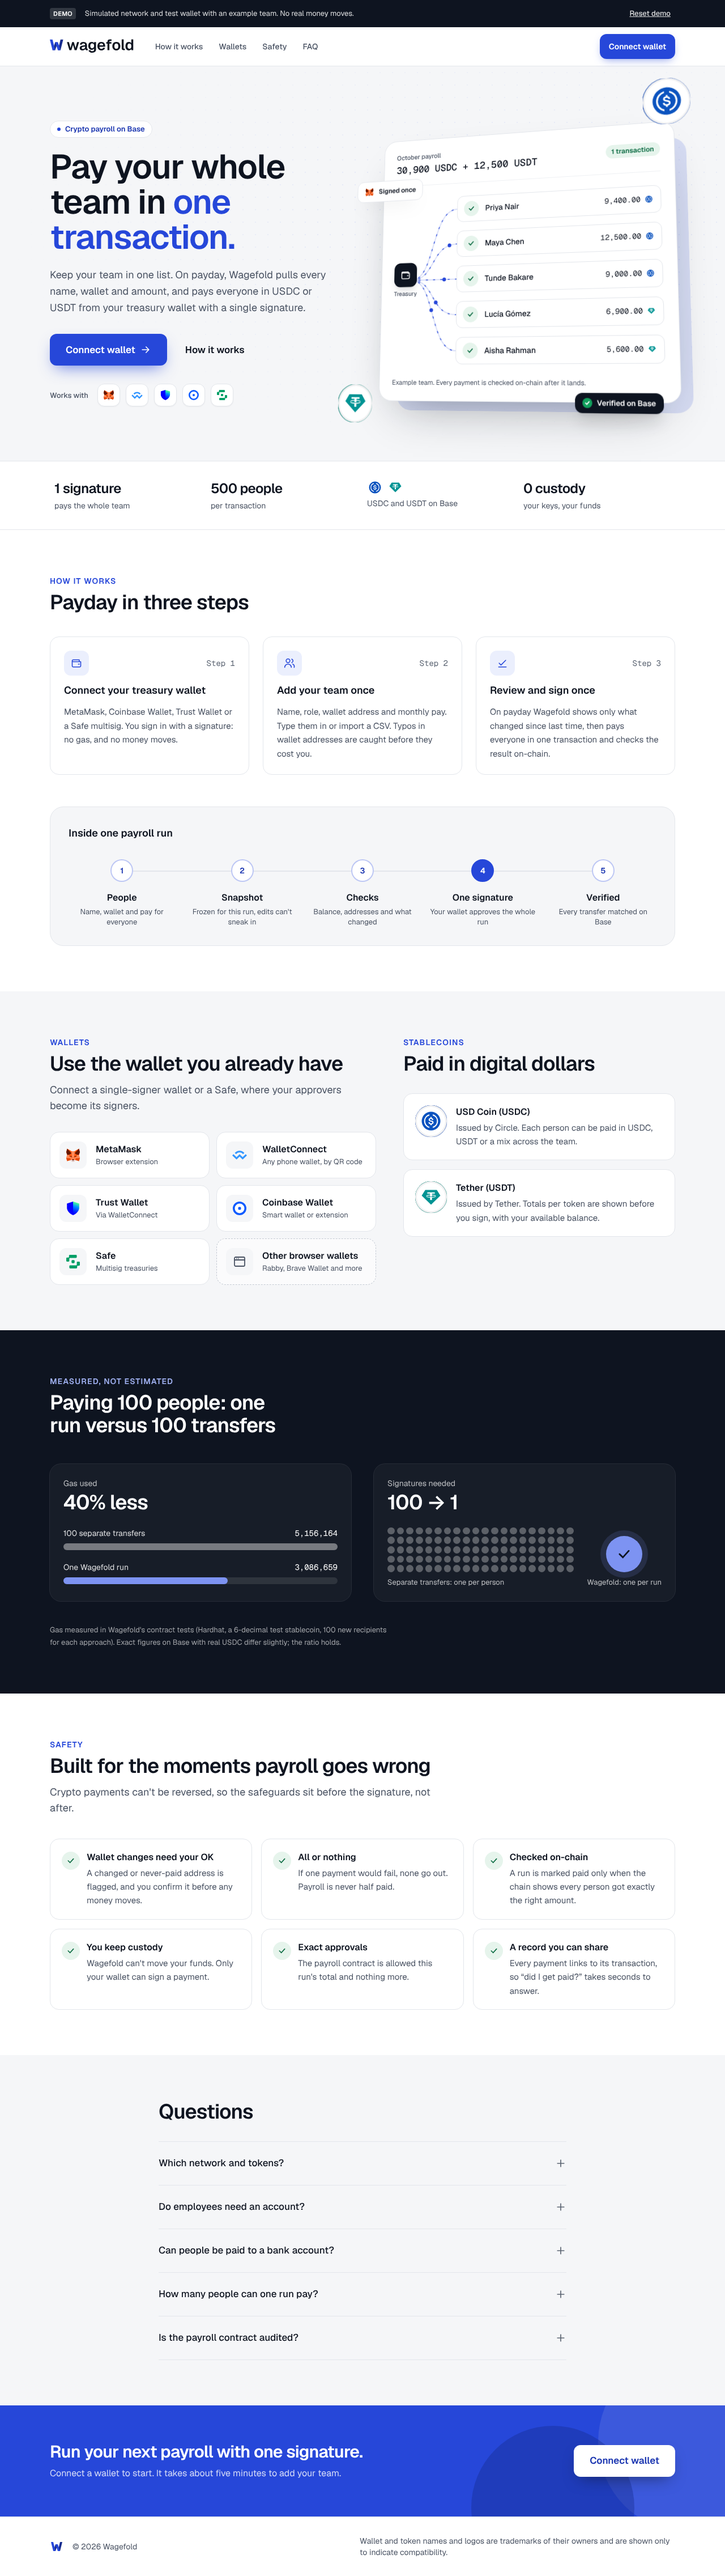
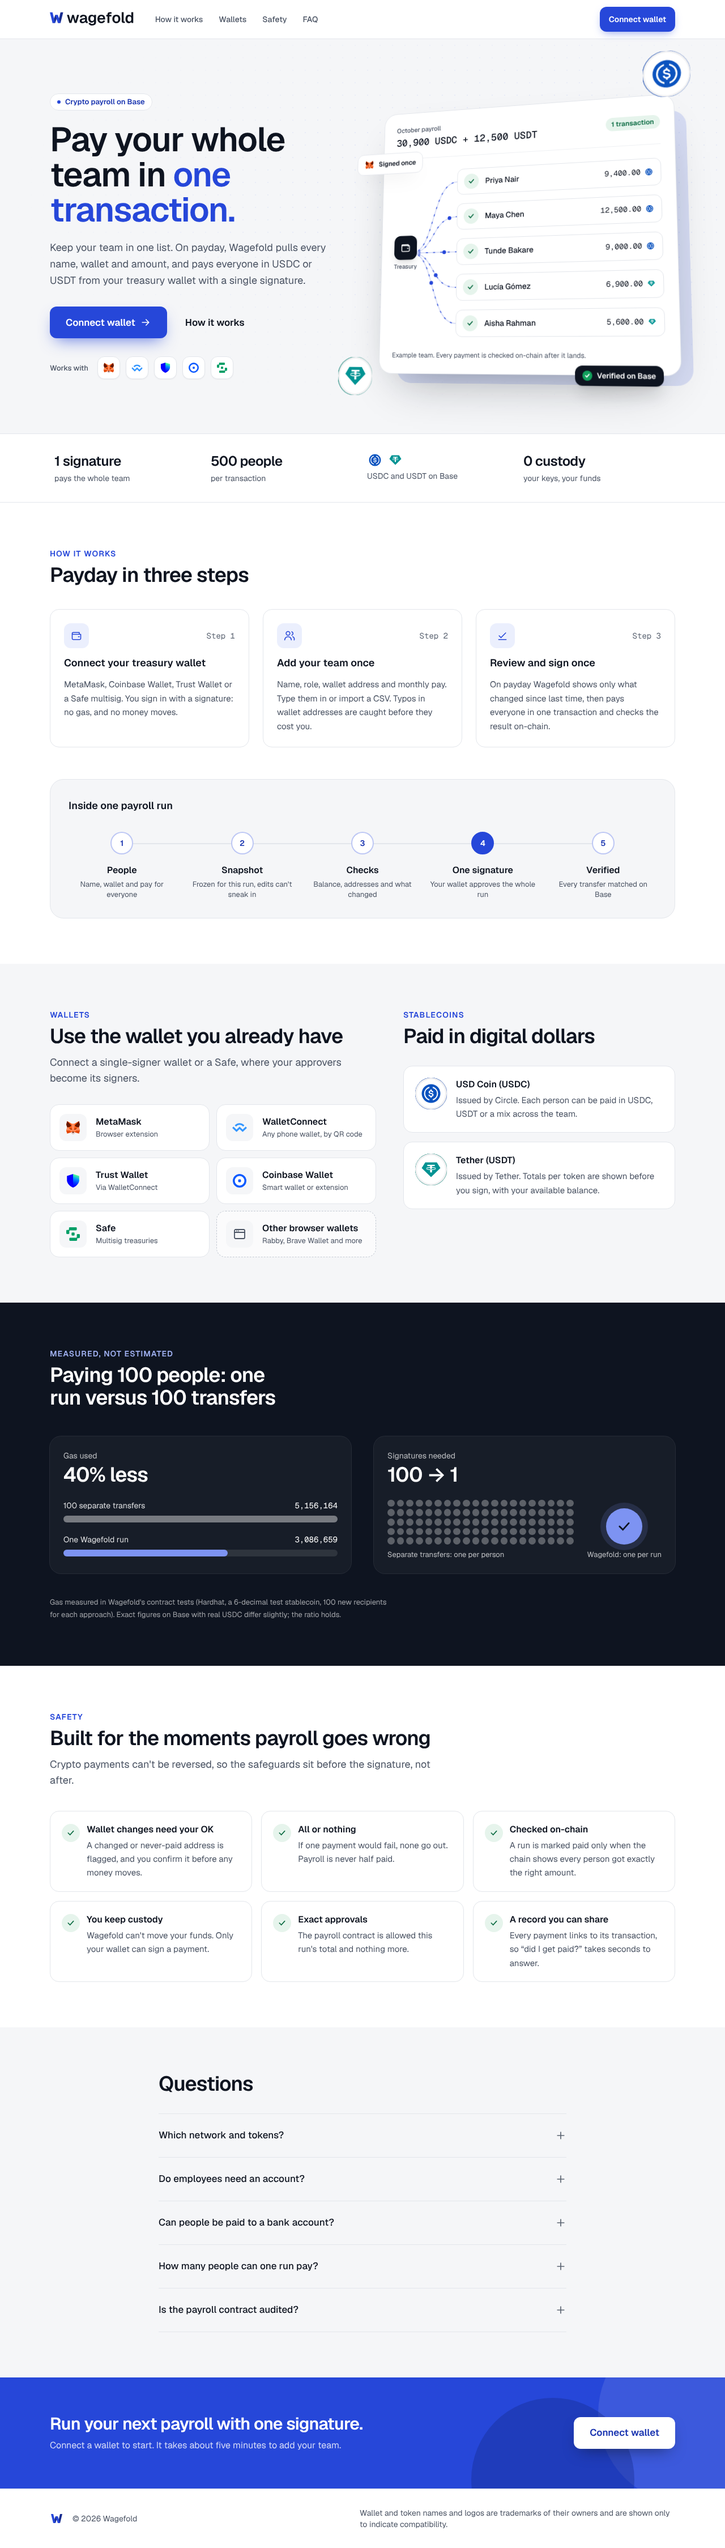
README: lead with the landing page and add a screens gallery
- Hero screenshot of the landing page at the top, full page in a
  collapsible section
- Gallery of review, paid, people and history screens
- Screenshots cropped to remove the demo banner

Claude-Session: https://claude.ai/code/session_01D7rgauhmyBaZ49rgLZu2hs

diff --git a/README.md b/README.md
@@ -2,7 +2,26 @@
 
 Crypto payroll in one transaction. A finance team connects its treasury wallet, keeps its team in Wagefold (name, role, EVM wallet, monthly pay in USDC or USDT), and pays everyone with one signature.
 
-![Review payroll](docs/screenshots/5-review.png)
+![Wagefold landing page](docs/screenshots/landing-hero.png)
+
+<details>
+<summary><b>See the full landing page</b></summary>
+<br>
+<img src="docs/screenshots/1-landing.png" alt="Full Wagefold landing page: hero, how it works, supported wallets and stablecoins, measured gas infographic, safety, FAQ">
+</details>
+
+## Screens
+
+<table>
+  <tr>
+    <td width="50%"><img src="docs/screenshots/5-review.png" alt="Review payroll with changes since last payroll and wallet check"><br><sub><b>Review</b>: what changed since the last payroll, flagged wallets, one-click send</sub></td>
+    <td width="50%"><img src="docs/screenshots/6-done.png" alt="Payroll paid in one transaction"><br><sub><b>Paid</b>: everyone paid in one transaction, verified on-chain</sub></td>
+  </tr>
+  <tr>
+    <td width="50%"><img src="docs/screenshots/4-people-search.png" alt="People list with search"><br><sub><b>People</b>: the team database with search, sorting and CSV import</sub></td>
+    <td width="50%"><img src="docs/screenshots/7-history-expanded.png" alt="History with an expanded payroll run"><br><sub><b>History</b>: every run, who was paid and the transaction</sub></td>
+  </tr>
+</table>
 
 ## How it works
 
